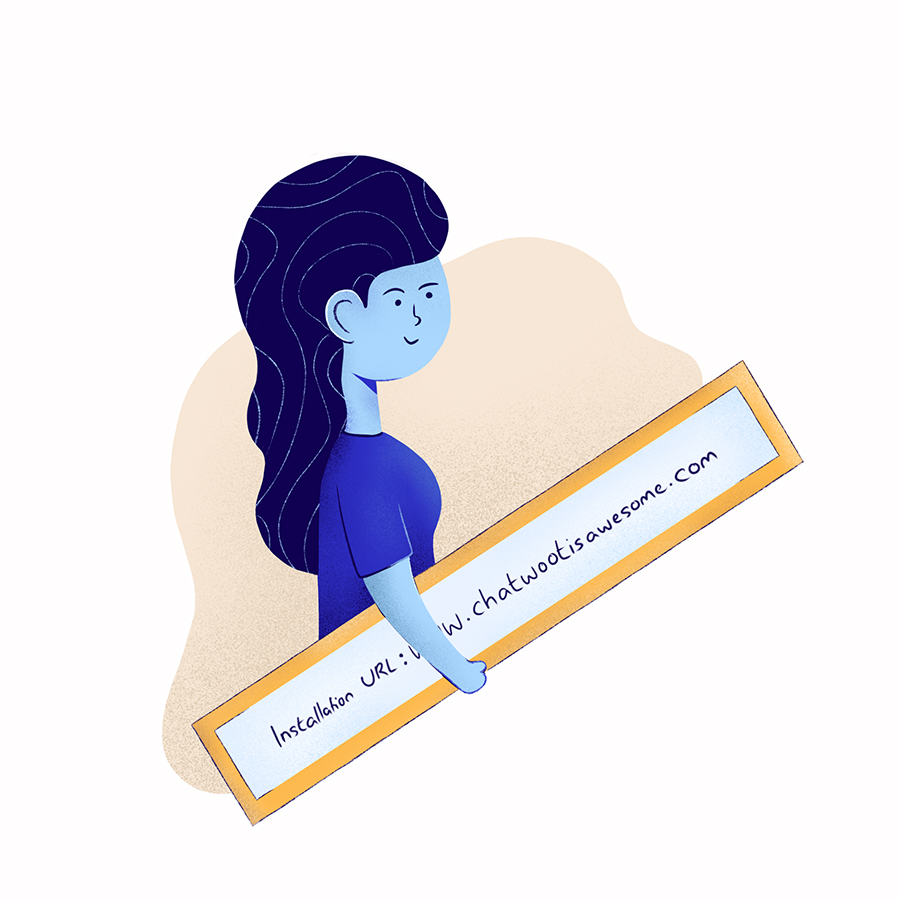
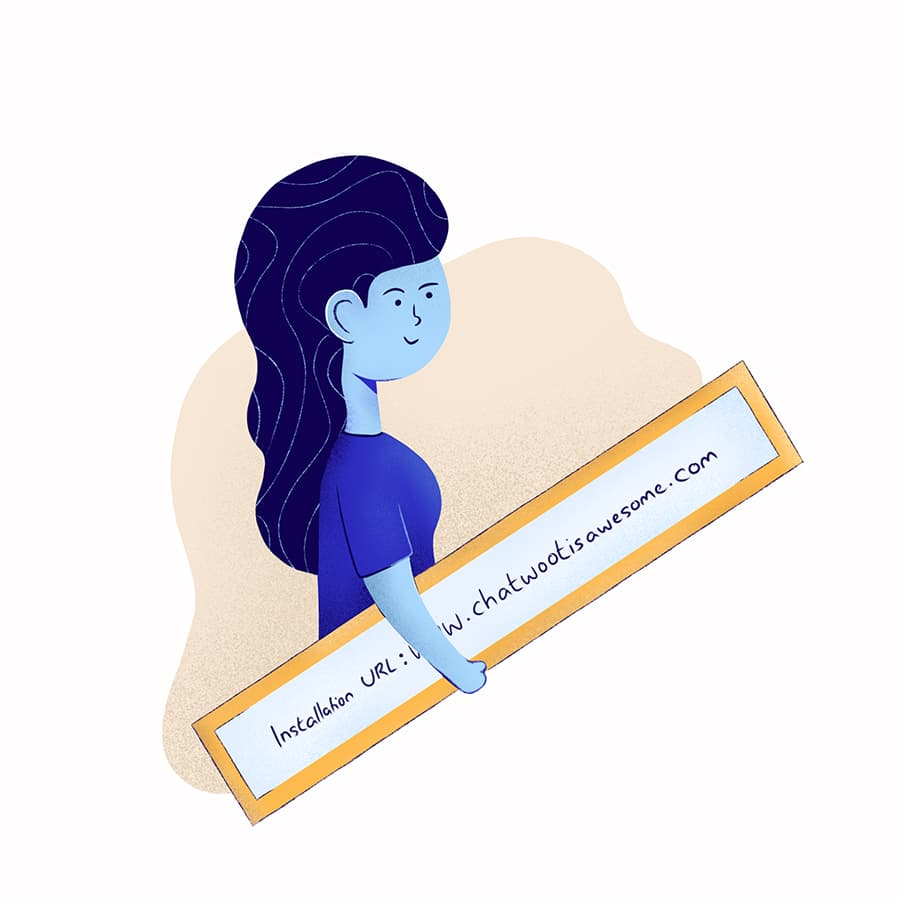
fix: app crash in conversation details screen (#227)
* Fix the crash issue

* Compress all the images

* Release android/ios version 0.0.54

* Update screenshots

* Update screenshot

diff --git a/src/screens/ConversationDetails/ConversationDetailsScreen.js b/src/screens/ConversationDetails/ConversationDetailsScreen.js
@@ -82,9 +82,15 @@ class ConversationDetailsComponent extends Component {
             <CustomText style={style.emailLabel}>{email}</CustomText>
           </View>
         )}
-        {senderAdditionalInfo && senderAdditionalInfo.description && (
+
+        {senderAdditionalInfo && senderAdditionalInfo.description !== '' && (
           <View style={style.descriptionContainer}>
             <CustomText style={style.description}>{senderAdditionalInfo.description}</CustomText>
+          </View>
+        )}
+        {senderAdditionalInfo && senderAdditionalInfo.location !== '' && (
+          <View style={style.descriptionContainer}>
+            <CustomText style={style.description}>{senderAdditionalInfo.location}</CustomText>
           </View>
         )}
 

diff --git a/README.md b/README.md
@@ -20,19 +20,19 @@
 
 - Do not miss out on the new customers
 - Follow up on customer conversations on go
+- Reply easily with canned responses
 - Receive realtime notifications about system activities
 - Communicate with other team members via private notes
 - Assign statuses to your conversations
   ... and more to come!
 
 <p float="left">
-  <img src=".github/login.png" alt="screenshot-1" width="250">
-  <img src=".github/list.png" alt="screenshot-2" width="250">
-  <img src=".github/chat.png" alt="screenshot-3"width="250">
-  <img src=".github/details.png" alt="screenshot-3"width="250">
-  <img src=".github/filter.png" alt="screenshot-4" width="250">
-  <img src=".github/settings.png" alt="screenshot-5"width="250">
-  
+  <img src=".github/conversation.png" alt="conversations" width="250">
+  <img src=".github/chat.png" alt="chat" width="250">
+  <img src=".github/details.png" alt="details"width="250">
+  <img src=".github/filter.png" alt="filter" width="250">
+  <img src=".github/notification.png" alt="notification"width="250">
+  <img src=".github/settings.png" alt="settings"width="250">
 </p>
 
 ## Download Android/iOS application
